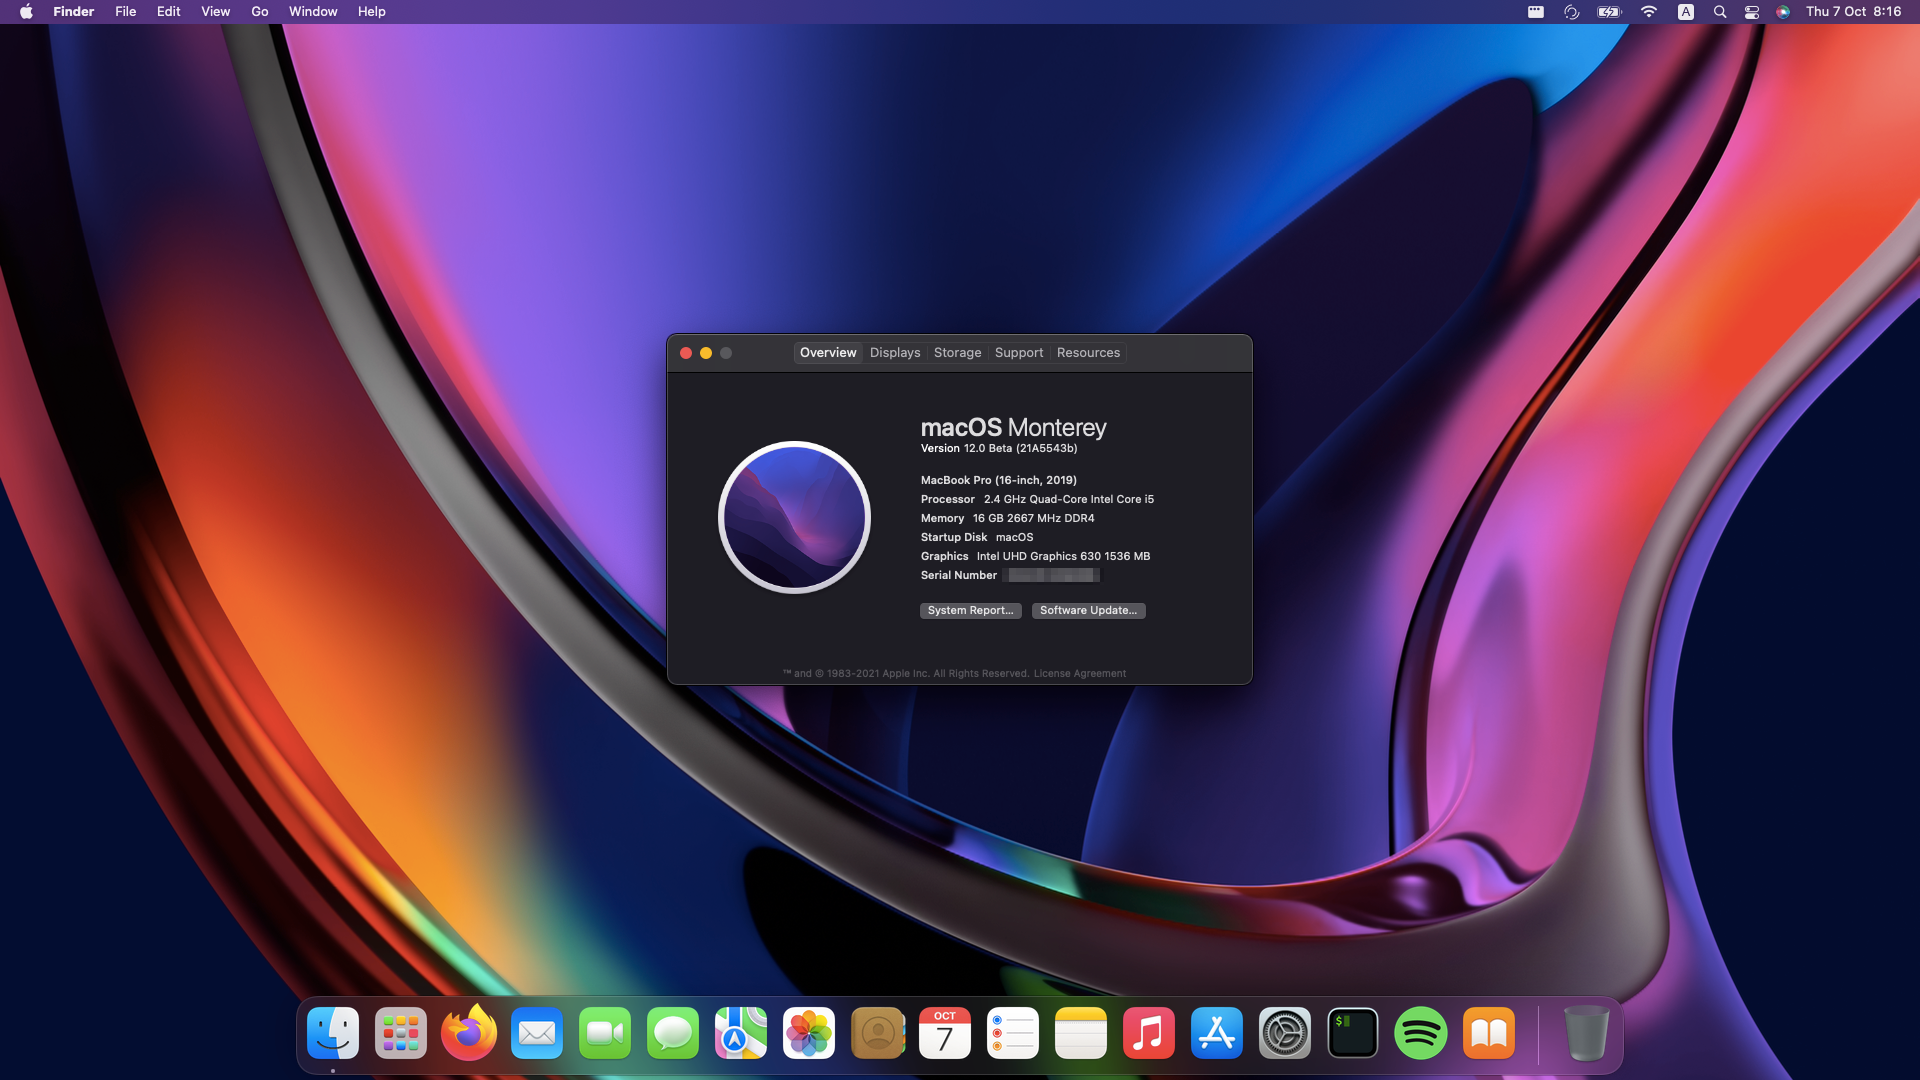
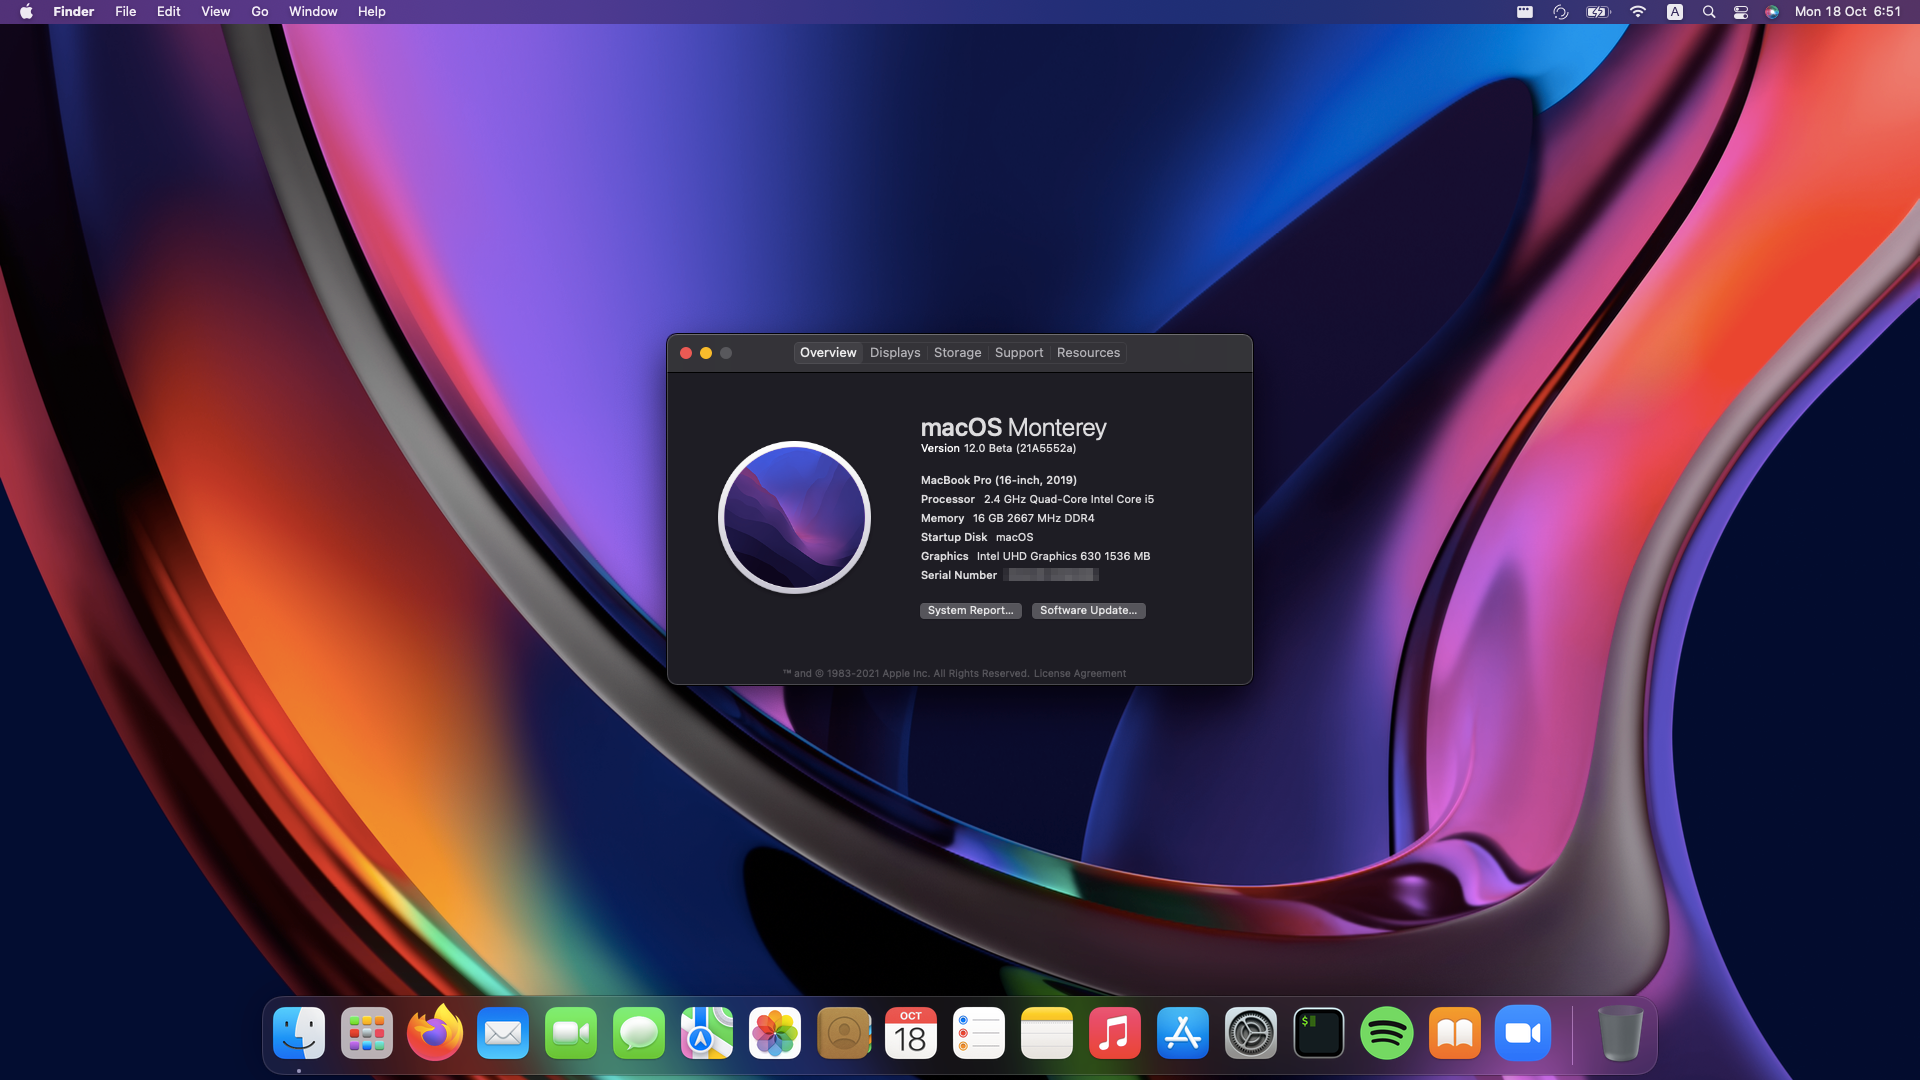
Update to beta 10

Changed region(s): [[0.125, 0.9167, 0.875, 1.0], [0.7812, 0.0, 0.9688, 0.0306]]

diff --git a/README.md b/README.md
@@ -1,7 +1,7 @@
 
 # Acer Nitro 5 AN515-54 Hackintosh
 
-macOS Monterey Beta 9 on Acer Nitro 5 AN515-54 with OpenCore 0.7.4 EFI folder.
+macOS Monterey Beta 10 on Acer Nitro 5 AN515-54 with OpenCore 0.7.4 EFI folder.
 
 <img src="https://github.com/PowerBall253/AN515-54-Hackintosh/blob/master/screenshot.png?raw=true" alt="macOS Monterey">
 
